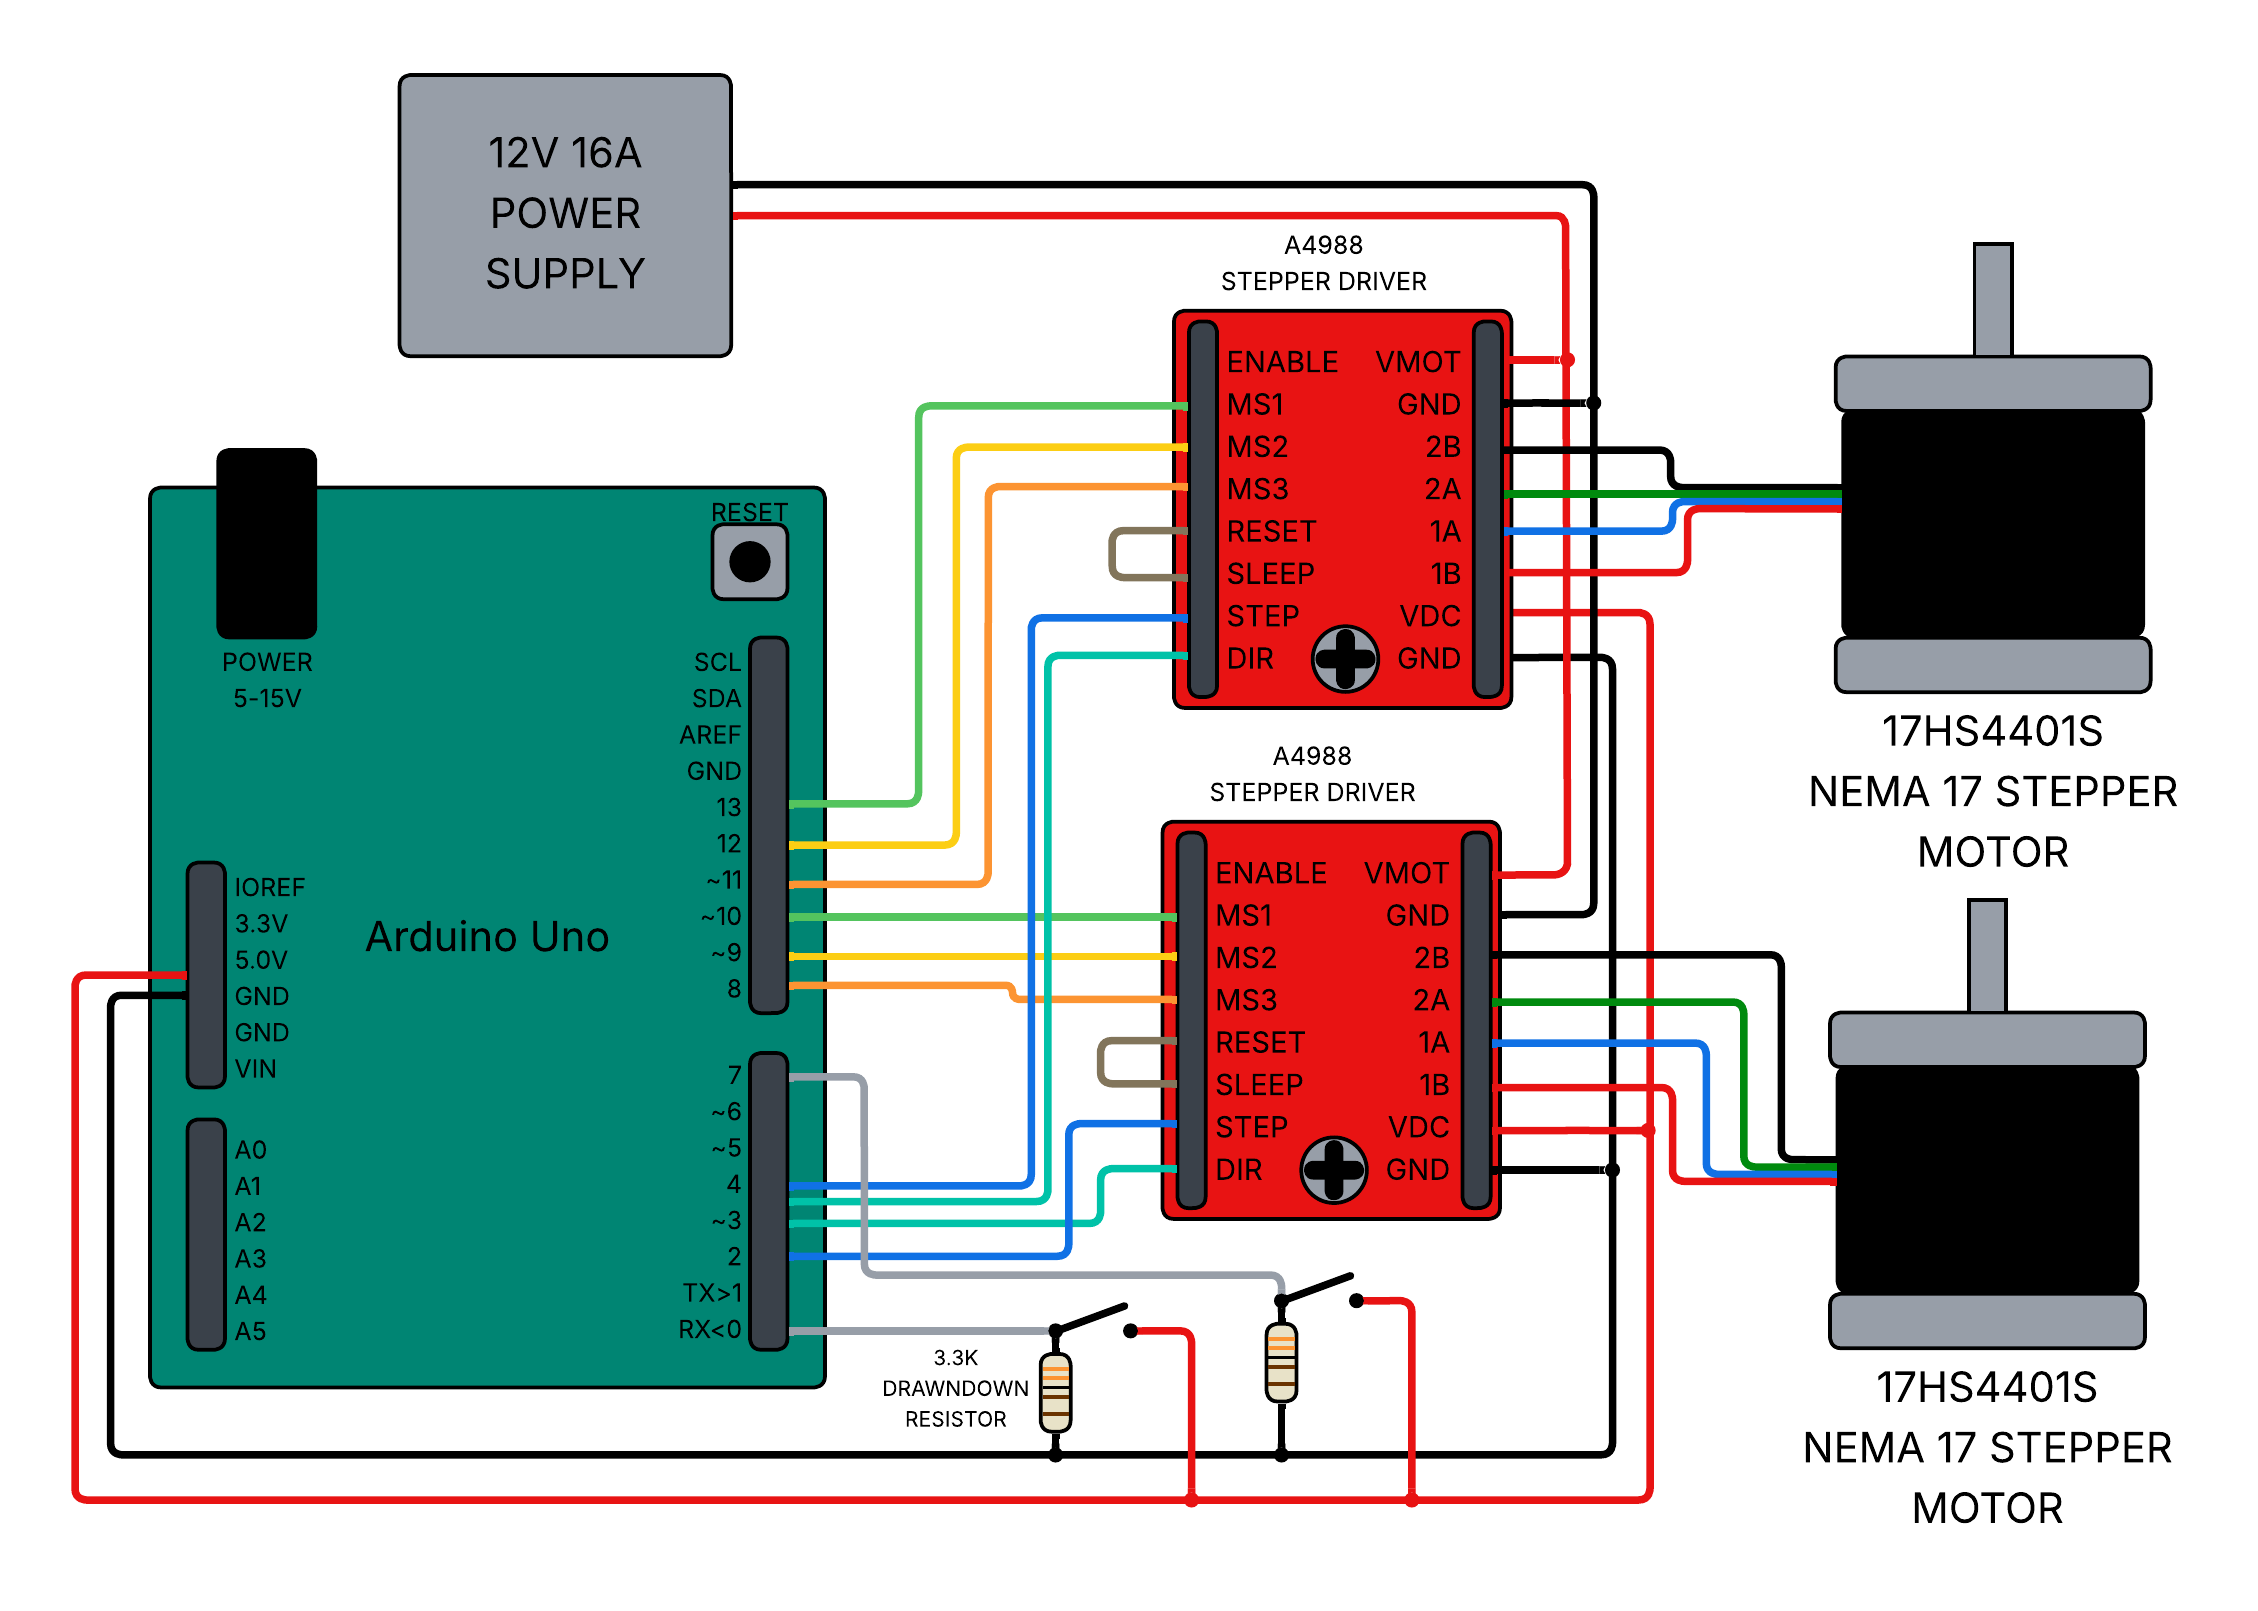
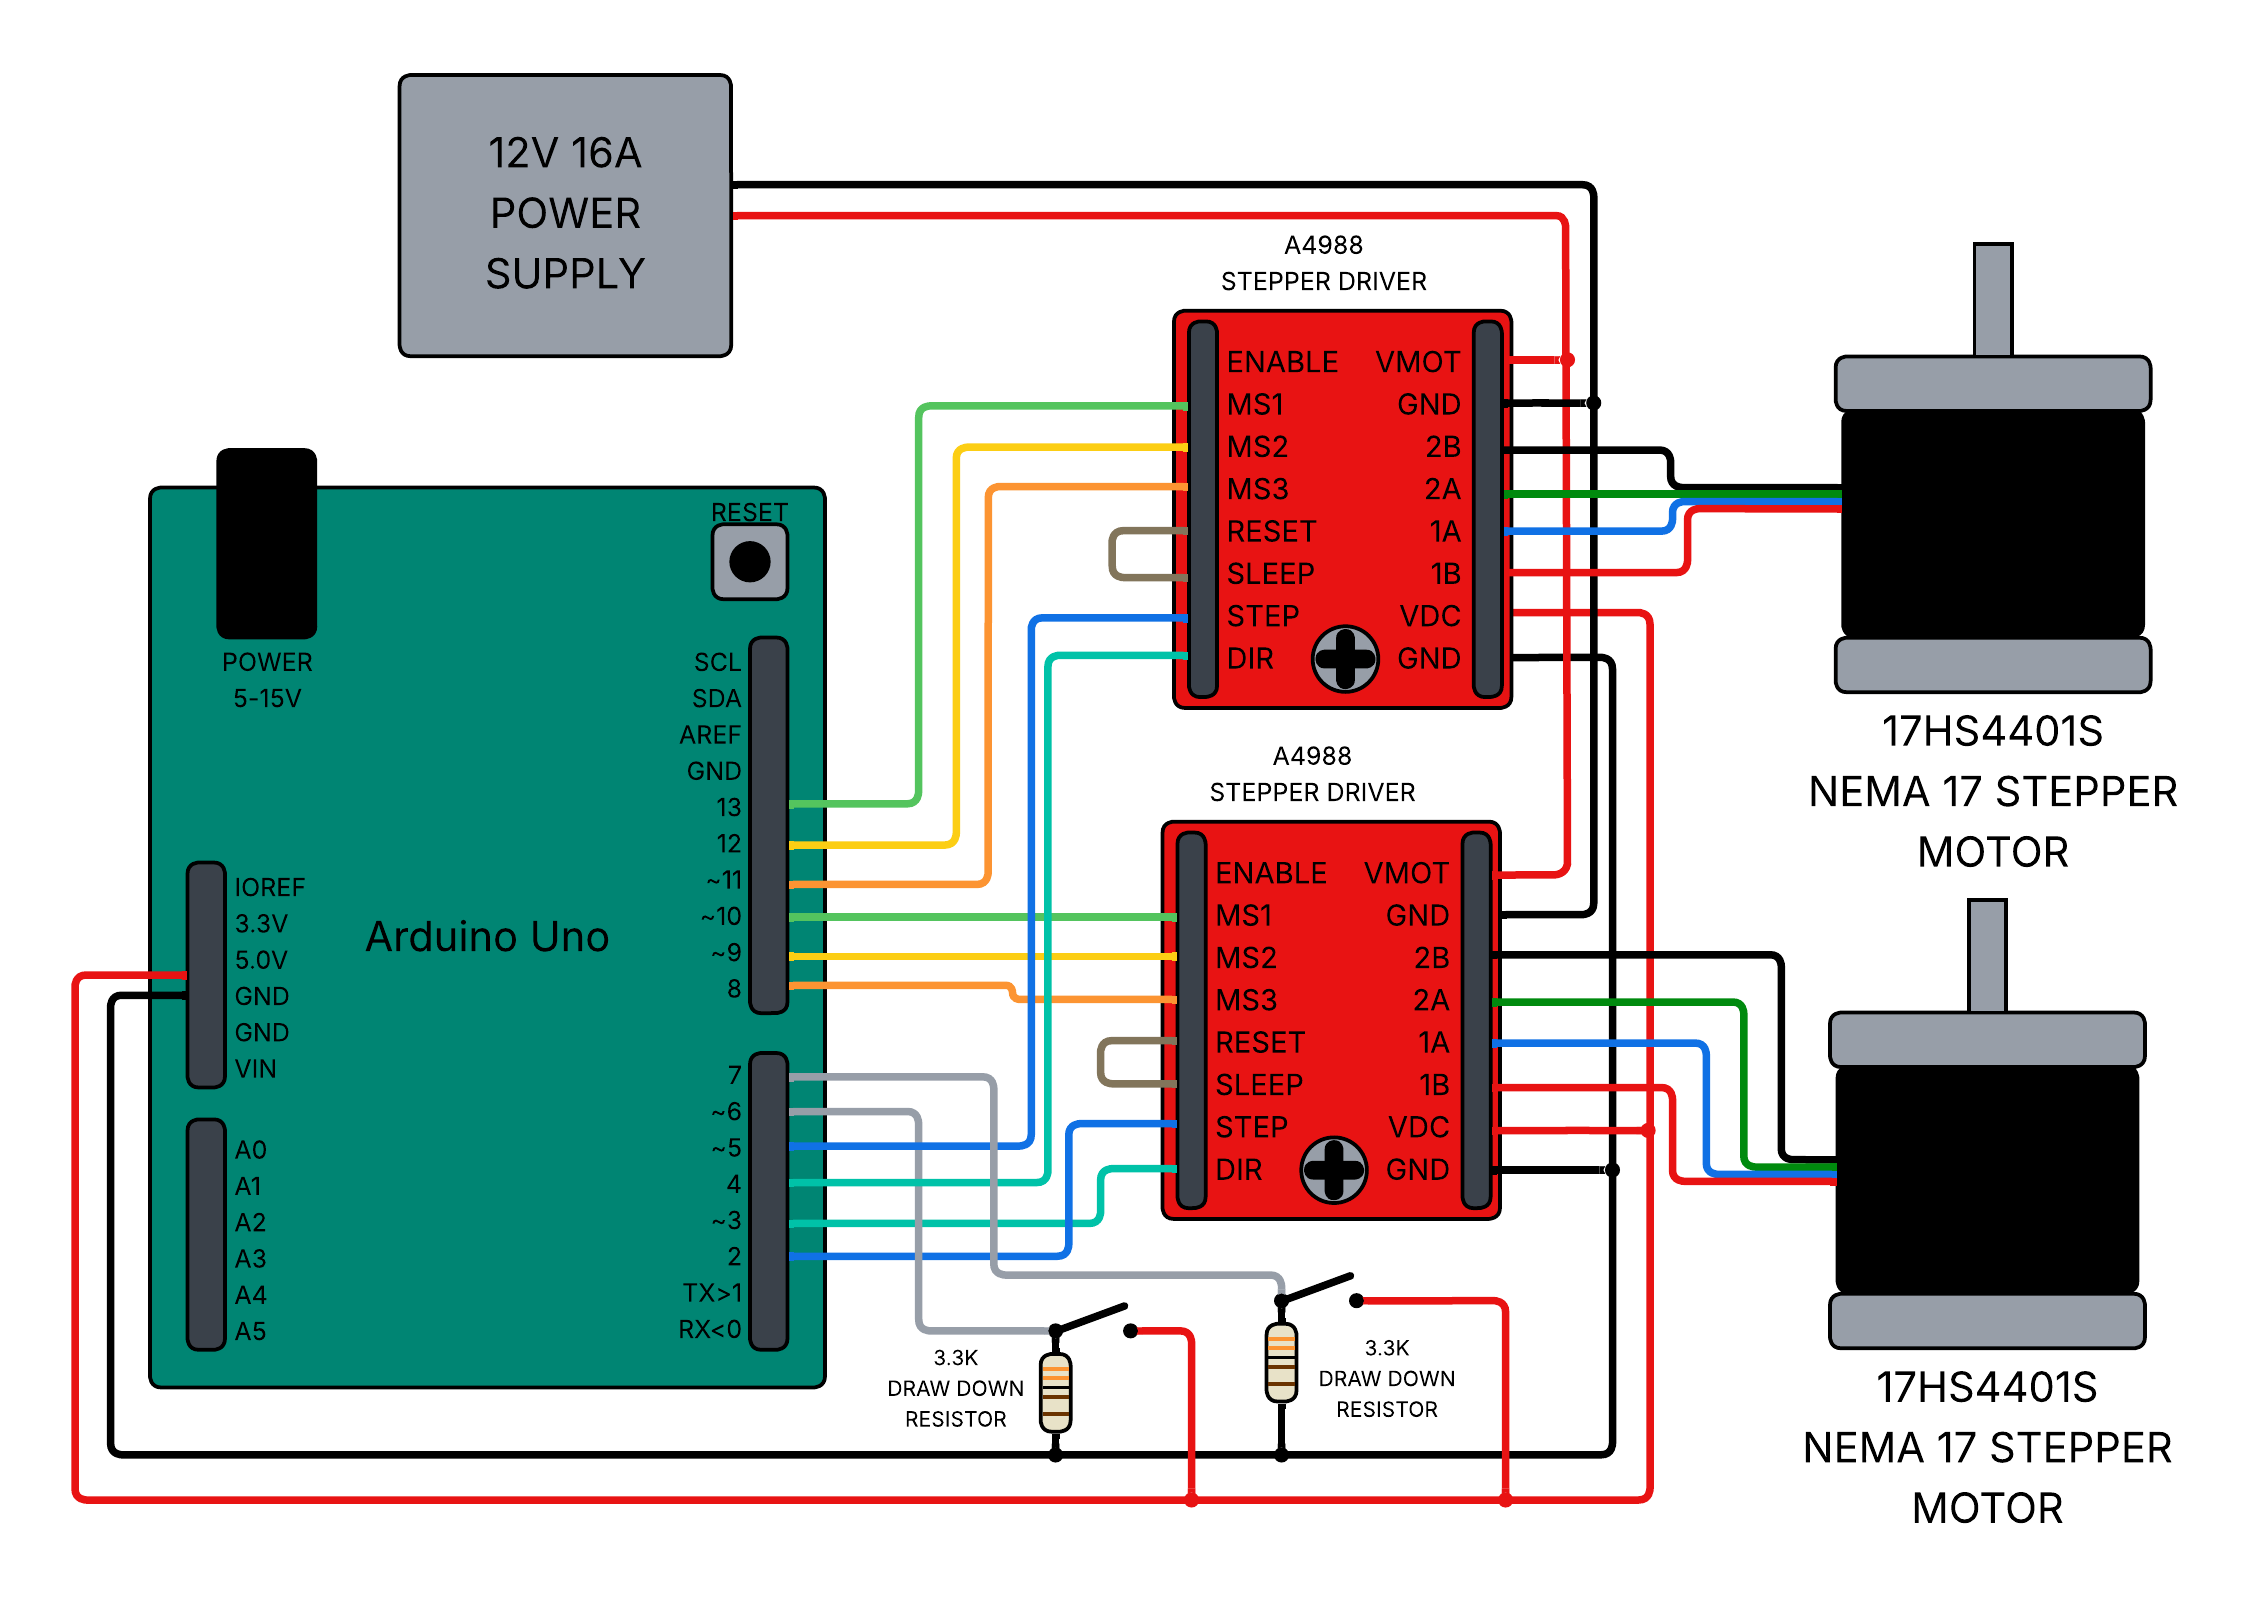
Adjusted schematics and combined initialization
The wiring cant have the home switch wired to pin 0 as the RX feature will prevent proper homing. I also mixed the initialization features together under the constructor for stepper object creation.

Changed region(s): [[0.341, 0.6518, 0.465, 0.869], [0.589, 0.807, 0.682, 0.9311]]

diff --git a/Main/Stepper.h b/Main/Stepper.h
@@ -17,17 +17,18 @@ class Stepper{
   ///By default the ms pins are 0, 1, and 2, but can be set using the setMsPins function \n
   ///By default the step resolution will be set to full step but can be changed with setStepResolution() \n
   ///Upon initialization, the motor will rotate CCW to look for a zero position 
-  public : Stepper(int directionPin, int stepEnablePin, int stepResolution){
+  public : Stepper(int directionPin, int stepEnablePin, int stepResolution, int ms1Pin, int ms2Pin, int ms3Pin, int res, int homePin){
     setDirectionPin(directionPin);
     setStepEnablePin(stepEnablePin);
-    setMsPins(ms1, ms2, ms3);
-    setStepResolution(stepResolution);
+    setMsPins(ms1Pin, ms2Pin, ms3Pin);
+    setStepResolution(res);
+    this->homeSwitchPin = homePin;
   }
 
   ///A function used to run the motor CCW to look for a constant zero position
   public : void findHome(){
     while(digitalRead(homeSwitchPin) == LOW){
-      rotate(LOW, 1, 1);
+      rotate(0, 1, 1);
     }
     currentPosition = 0;
   }
@@ -106,9 +107,6 @@ class Stepper{
     this->ms3 = ms3Pin;
     pinMode(ms3, OUTPUT);
   }
-
-  ///Allows the user to change the delay between the step pulses changing the rotation speed
-  public : void setStepDelay(int delay){this->stepDelay = delay;}
 
   ///Used to rotate the motor in the 'b' direction a number of steps equal to the value provided \n
   ///The delay defines how long the rotation will take in milliseconds \n
